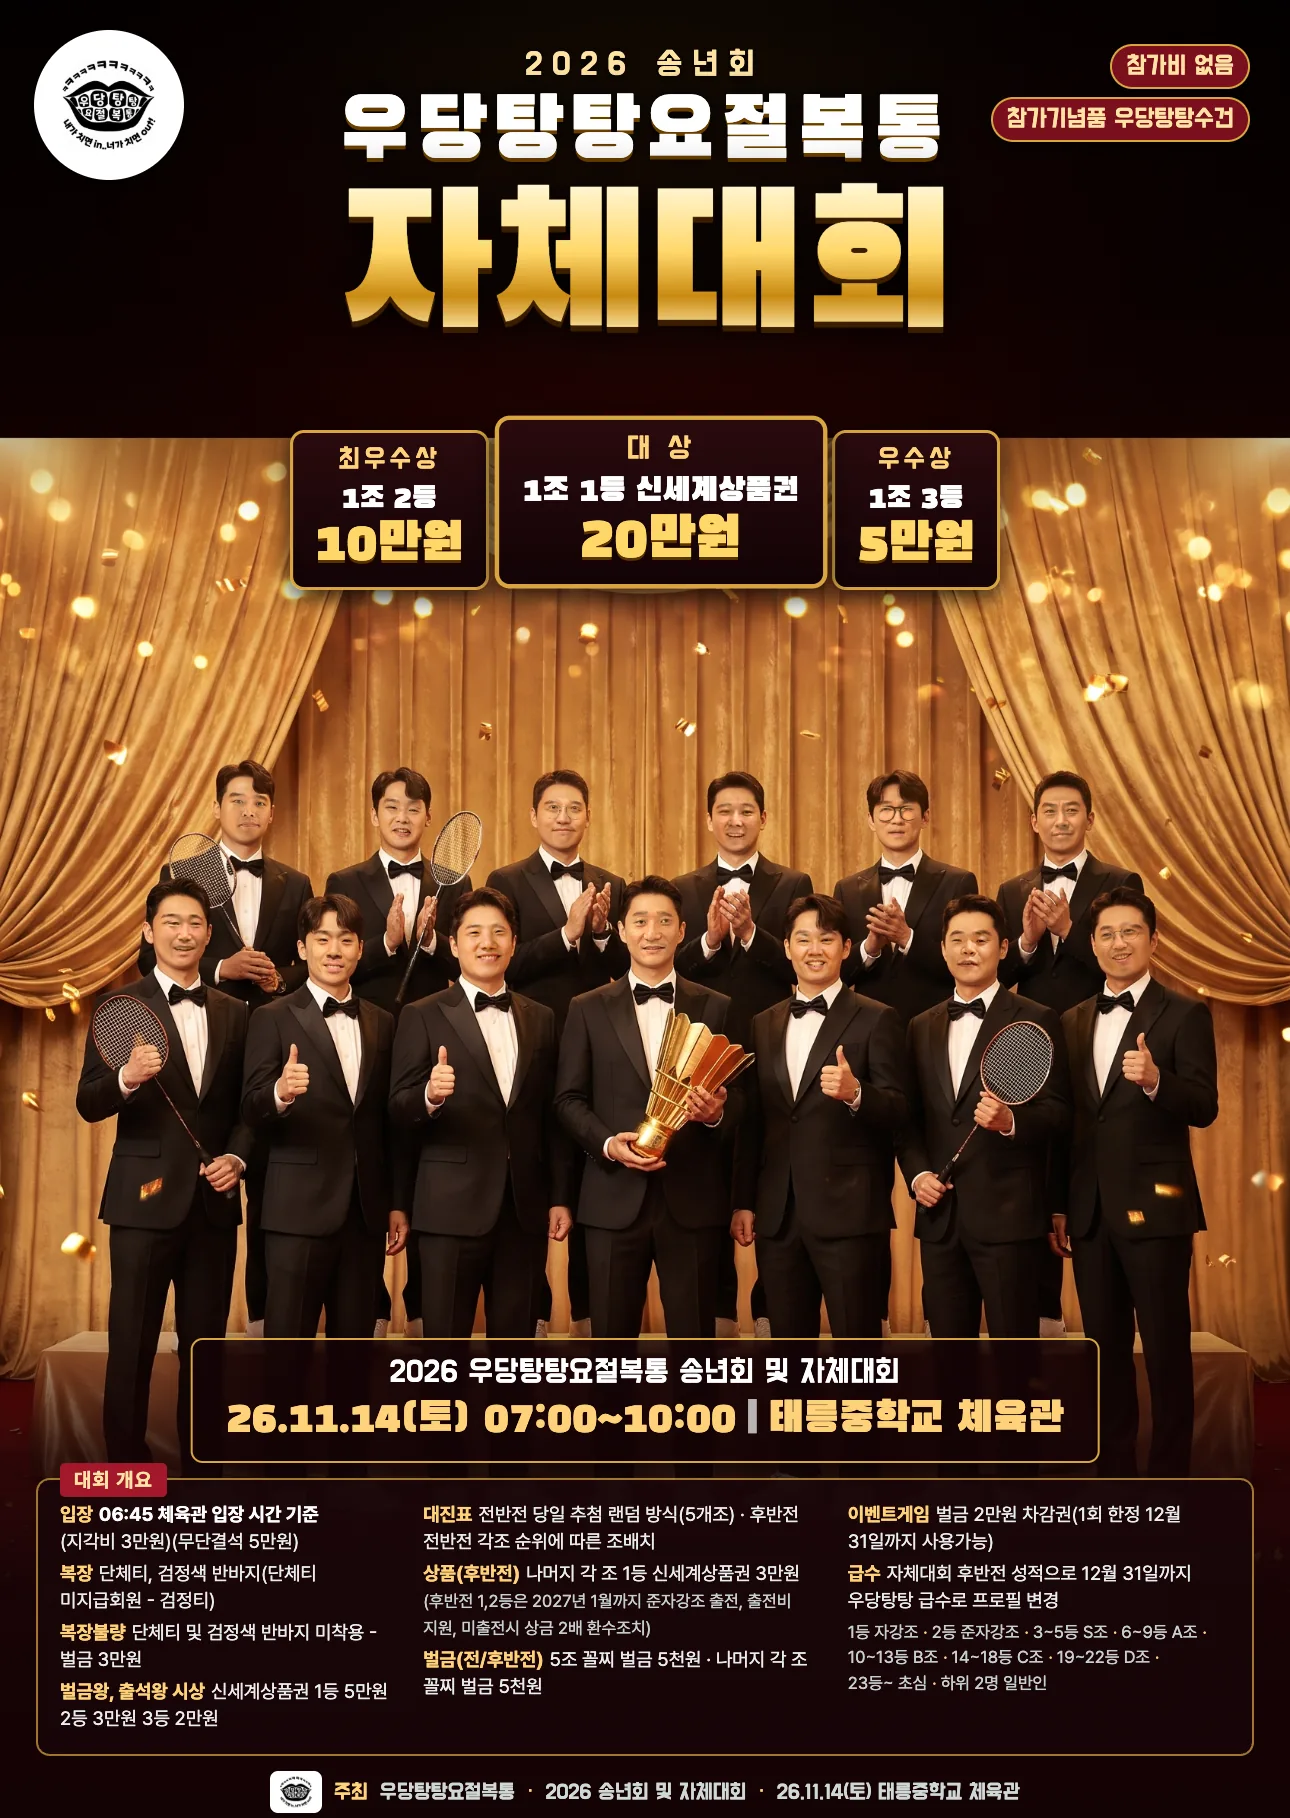
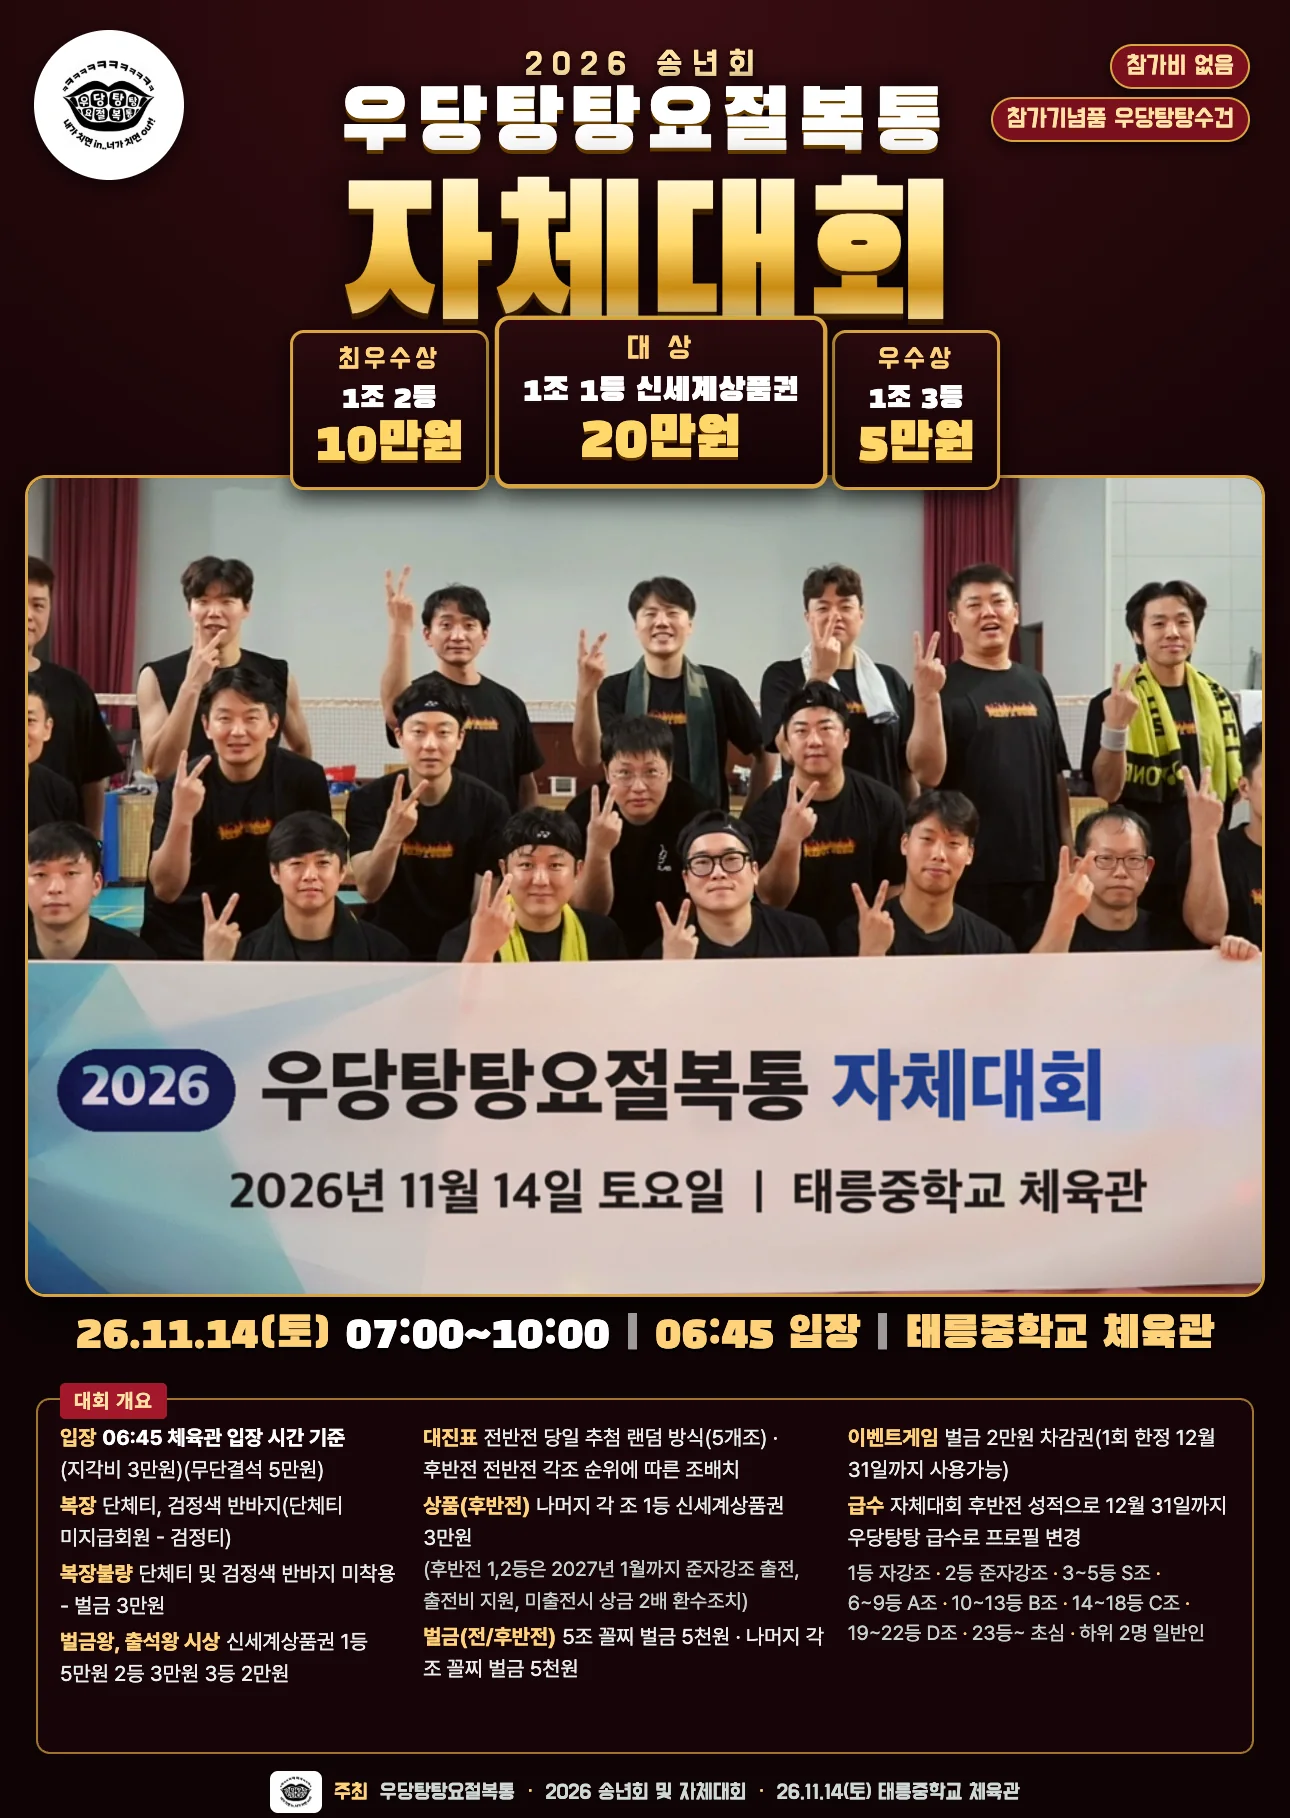
포스터 최종: 실제 단체사진(태릉중) 보정본 — AI 얼굴 합성 폐기

diff --git a/index.html b/index.html
@@ -613,7 +613,7 @@ body[data-theme="C"] #show{background:radial-gradient(1200px 700px at 50% 30%,#3
   <div class="box" style="margin-top:16px" id="settingsBox">
     <h2>설정</h2>
     <div class="setgrid">
-      <label>포스터·테마 <select id="setPoster"><option value="A">A 자체대회(시상식)</option><option value="B">B 흑백복식사</option><option value="C">C 범죄도시 벌금 소탕작전</option></select></label>
+      <label>포스터·테마 <select id="setPoster"><option value="A">A 자체대회(실사 단체사진)</option><option value="B">B 흑백복식사</option><option value="C">C 범죄도시 벌금 소탕작전</option></select></label>
       <label>전반전 시작 <input type="text" id="setR1Start" inputmode="numeric" maxlength="5" placeholder="07:00"></label>
       <label>후반전 시작 <input type="text" id="setR2Start" inputmode="numeric" maxlength="5" placeholder="08:25"></label>
       <label>경기당(분) <input type="number" id="setRoundMin" min="5" max="40"></label>
